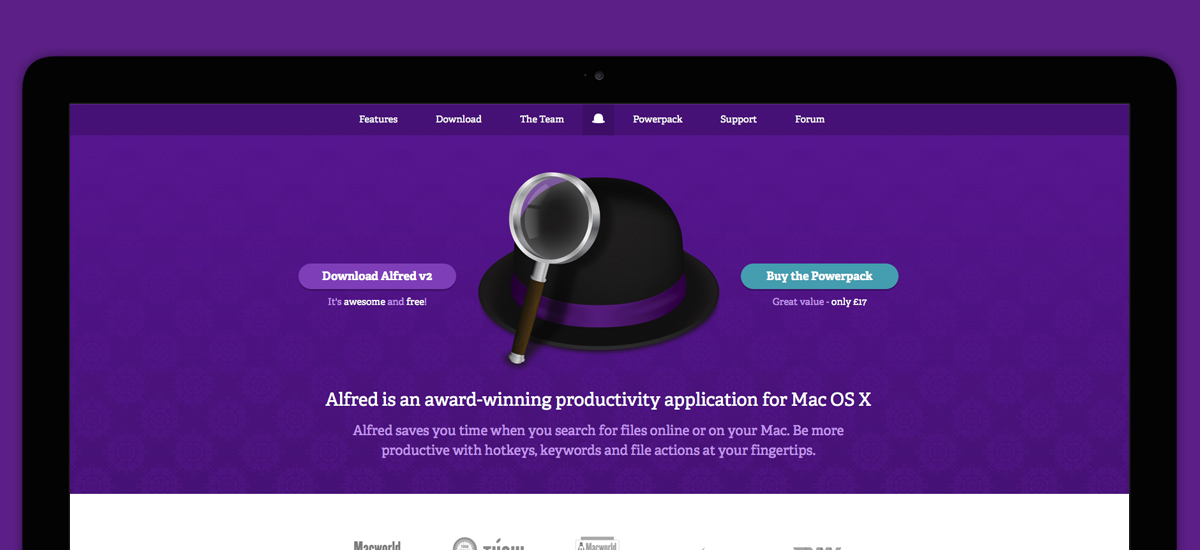
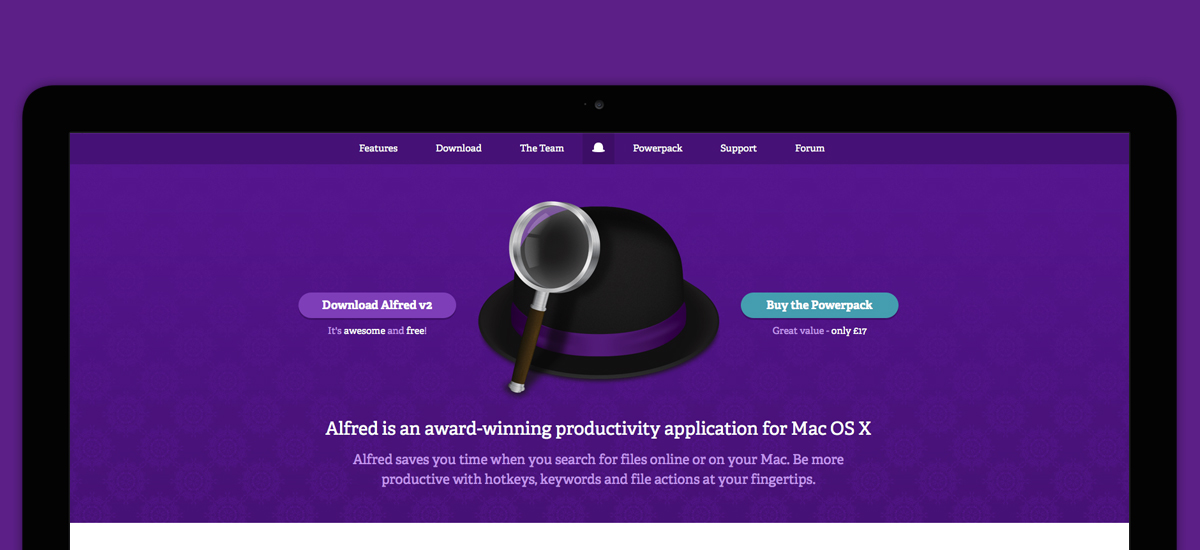
Various browser fixes

diff --git a/source/stylesheets/site.css.scss b/source/stylesheets/site.css.scss
@@ -43,7 +43,7 @@ hr {
 
 // Typography
 
-h1,h2,h3,h4, .intro:first-of-type:first-letter, .blog-entry div>p:first-of-type:first-letter {
+h1, h2, h3, h4, .intro:first-of-type:first-letter, .blog-entry div>p:first-of-type:first-letter {
   font-family: 'Quarto A', 'Quarto B', 'Georgia', sans-serif;
   font-weight: 700;
   text-align: center;
@@ -52,6 +52,7 @@ h1 {
   font-size: 4em;
   line-height: 1;
   margin-bottom: 0.8em;
+  text-align: center;
   @media screen and (max-width: 550px) {
     font-size: 3em;
   }
@@ -155,6 +156,12 @@ label {
 fieldset {
   > div {
     margin-bottom: 1em;
+    &:last-child {
+      margin: 0;
+    }
+    &.radios > label {
+      text-align: center;
+    }
   }
 }
 
@@ -219,10 +226,11 @@ nav {
 }
 #logo {
   left: 50%;
-  height: auto;
+  height: 73px;
   margin-left: -40px;
   opacity: 1;
   position: absolute;
+  overflow: hidden;
   top: 1em;
   width: 80px;
   @include transition(opacity 0.1s linear);
@@ -255,6 +263,9 @@ nav {
   border-top: 1px solid #e1e1e1;
   padding: 3em 0;
   text-align: center;
+  ul {
+    list-style: none;
+  }
 }
 
 // Homepage 
@@ -333,7 +344,7 @@ body.alfred-app {
   .featured {
     background-color: $alfred-color;
     @extend %header-shadow;
-    article:nth-child(1) {
+    article.ft-alfred-app {
       background: url('/images/work/alfred-app/alfred-app-background.jpg') no-repeat center bottom;
       background-size: 100%;
       display: block;
@@ -351,7 +362,7 @@ body.trickits {
   .featured {
     background-color: $trickits-color;
     color: #cec3b7;
-    article:nth-child(3) {
+    article.ft-trickits {
       background: url('/images/work/trickits/trickits-featured.jpg') no-repeat bottom center;
       background-size: 100%;
       display: block;
@@ -370,7 +381,7 @@ body.sports-digest-8-50 {
     background: url('/images/work/sports-digest-8-50/8-50-background.jpg') no-repeat center;
     background-size: cover;
     color: $sports-digest-color;
-    article:nth-child(2) {
+    article.ft-sports-digest-8-50 {
       display: block;
     }
   }
@@ -385,7 +396,7 @@ body.alton-convent-school {
     background: url('/images/work/alton-convent-school/alton-convent-background.jpg') no-repeat center;
     background-size: cover;
     color: #fff;
-    article:nth-child(4) {
+    article.ft-alton-convent-school {
       display: block;
     }
   }
@@ -491,7 +502,7 @@ body.super-better {
 }
 .work-item {
   padding: 0;
-  > div:not(.client-header) {
+  > div {
     margin: 0 auto;
     max-width: 1000px;
     padding: 3em 2em;
@@ -692,5 +703,29 @@ body.page-contact {
   &.active {
     display: block;
     opacity: 1;
+  }
+}
+
+// Some ie8 fixes 
+.ie8 {
+  #logo {
+    background: url('../images/logo.png') no-repeat center;
+    height: 80px;
+    width: 80px;
+  }
+  nav {
+    margin-right: -45px;
+    li:first-child + li {
+      margin-right: 200px;
+    }
+    &:last-child {
+      margin-right: 0;
+    }
+  }
+  .work-item {
+    > div:first-child {
+      margin: 0 auto;
+      width: 1000px;
+    }
   }
 }

diff --git a/source/javascripts/application.js b/source/javascripts/application.js
@@ -18,30 +18,34 @@ var removeClass = function (elem, className) {
   }
 }
 
-if ( 'querySelector' in document && 'addEventListener' in window ) {
-
-  var body = document.querySelector('body');
-
-  // Adding random classes to the homepage
+// Adding random classes to the homepage
+function addBodyClass() {
   if(hasClass(body, 'page-index') ) {
     var bodyClasses = ['alfred-app','sports-digest-8-50','trickits','alton-convent-school'];
     var randomClass = Math.floor(Math.random()*bodyClasses.length);
     addClass(body, bodyClasses[randomClass]);
-  } 
+  }
+}
 
-  // Fading background colours on the work page
-  var clients = document.getElementsByClassName("client");
-  [].forEach.call(clients, function(client){
-    client.addEventListener("mouseover", clientHover, false);
-    client.addEventListener("mouseout", clientHoverOut, false);
-    var clientID = client.getAttribute("id");
-  });
+if ( 'querySelector' in document && 'addEventListener' in window ) {
+
+  var body = document.querySelector('body');
+
+  addBodyClass();
+
   function clientHover(evt) {
     addClass(body, this.getAttribute("id"));
   }
   function clientHoverOut(evt) {
     removeClass(body, this.getAttribute("id"));
   }
+
+  // Fading background colours on the work page
+  var clients = document.getElementsByClassName("client");
+  [].forEach.call(clients, function(client){
+    client.addEventListener("mouseover", clientHover, false);
+    client.addEventListener("mouseout", clientHoverOut, false);
+  });
 
   // Tabs on the contact page
   var tab_contents = document.getElementsByClassName("contact-form");
@@ -63,4 +67,12 @@ if ( 'querySelector' in document && 'addEventListener' in window ) {
     }, false);
   });
 
+}
+
+// IE8 only
+
+if (document.all && document.querySelector && !document.addEventListener) {
+  var body = document.querySelector('body');
+  addBodyClass();
+  addClass(body, 'ie8');
 }

diff --git a/source/stylesheets/partials/_common.css.scss b/source/stylesheets/partials/_common.css.scss
@@ -162,9 +162,9 @@ $super-better-color: #b7378b;
 %first-letter {
   &:first-letter {
     float: left;
-    line-height: 1;
+    line-height: 0.55;
     font-size: 3em;
     font-weight: 700;
-    margin: 0 0.2em 0 0;
+    margin: 15px 0.2em 0 0;
   }
 }

diff --git a/config.rb b/config.rb
@@ -16,6 +16,7 @@
 # With no layout
 # page "/path/to/file.html", :layout => false
 
+page "/404.html", :layout => false
 page "/sitemap.xml", :layout => false
 
 # With alternative layout
@@ -65,6 +66,14 @@ helpers do
       "#{yield_content(:title)} - Capra Design"
     else
       "Capra Design"
+    end
+  end
+  # Set the page description
+  def page_description
+    if content_for?(:description)
+      "#{yield_content(:description)}"
+    else
+      "Hello, I'm Kat. I design websites, games & apps. Like goats, I like playful work, am curious about the world, and enjoy working within the herd to make great things."
     end
   end
   # Active nav items
